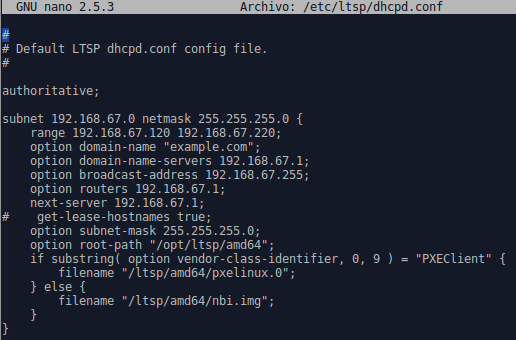
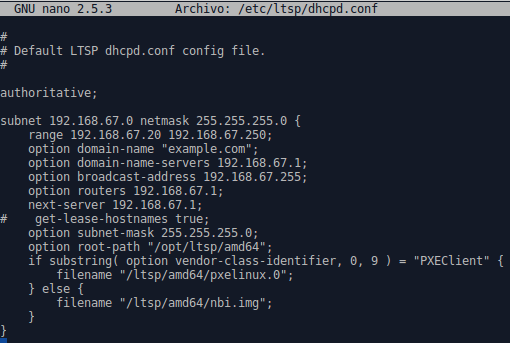
Final

diff --git a/trim1/u1/a1_clientes_ligeros.md b/trim1/u1/a1_clientes_ligeros.md
@@ -94,40 +94,42 @@ Instalamos el servidor de clientes ligeros, para ello utilizamos el comando apt-
 
 Ahora creamos una imagen del SO utilizando el comando ltsp-build-client, y dicha imagen se cargará en la memoria de los clientes ligeros.
 
-Revisamos la configuración del servicio DHCP instalado junto con LTSP, para ello vamos a consultar el fichero de configuración /etc/ltsp/dhcpd.conf y ahí comprobamos las rutas de option root-path /opt/ltsp/amd64 y filename /ltsp/amd64/pxelinux.0.
-
 ![imagen17](./images/a1_clientes_ligeros/17.png)
+
+Revisamos la configuración del servicio DHCP instalado junto con LTSP, para ello vamos a consultar el fichero de configuración /etc/ltsp/dhcpd.conf y ahí comprobamos las rutas de option root-path /opt/ltsp/amd64 y filename /ltsp/amd64/pxelinux.0.
 
 ![imagen18](./images/a1_clientes_ligeros/18.png)
 
-En el fichero /etc/ltsp/dhcpf.conf modificamos el valor de range por 192.168.67.120 192.168.67.220.
-
 ![imagen19](./images/a1_clientes_ligeros/19.png)
 
-Ejecutamos el comando ltsp-info para consultar información sobre nuestra imagen que hemos realizado.
+En el fichero /etc/ltsp/dhcpf.conf modificamos el valor de range por 192.168.67.120 192.168.67.220.
 
 ![imagen20](./images/a1_clientes_ligeros/20.png)
 
-Reiniciamos el servidor y comprobamos que los servicios están corriendo. Para ello utilizamos los comandos ps -ef|grep dhcp y ps -ef|grep ftp.
+Ejecutamos el comando ltsp-info para consultar información sobre nuestra imagen que hemos realizado.
 
 ![imagen21](./images/a1_clientes_ligeros/21.png)
+
+Reiniciamos el servidor y comprobamos que los servicios están corriendo. Para ello utilizamos los comandos ps -ef|grep dhcp y ps -ef|grep ftp.
+
+![imagen22](./images/a1_clientes_ligeros/22.png)
 
 # **4. Preparar MV Cliente.**
 
 Creamos la MV cliente en VirtualBox sin disco duro y sin unidad de DVD, sólo tiene RAM y la tarjeta de red PXE en modo de red interna. Configuramos la memoria gráfica a 128MB y habilitamos el soporte 3D.
 
-![imagen22](./images/a1_clientes_ligeros/22.png)
-
 ![imagen23](./images/a1_clientes_ligeros/23.png)
 
 ![imagen24](./images/a1_clientes_ligeros/24.png)
 
-Con el servidor encendido, iniciamos la MV cliente desde red/PXE y comprobamos que funciona pero nos da un error.
-
 ![imagen25](./images/a1_clientes_ligeros/25.png)
+
+Con el servidor encendido, iniciamos la MV cliente desde red/PXE y comprobamos que funciona pero nos da un error.
 
 ![imagen26](./images/a1_clientes_ligeros/26.png)
 
 ![imagen27](./images/a1_clientes_ligeros/27.png)
 
 ![imagen28](./images/a1_clientes_ligeros/28.png)
+
+![imagen29](./images/a1_clientes_ligeros/29.png)
